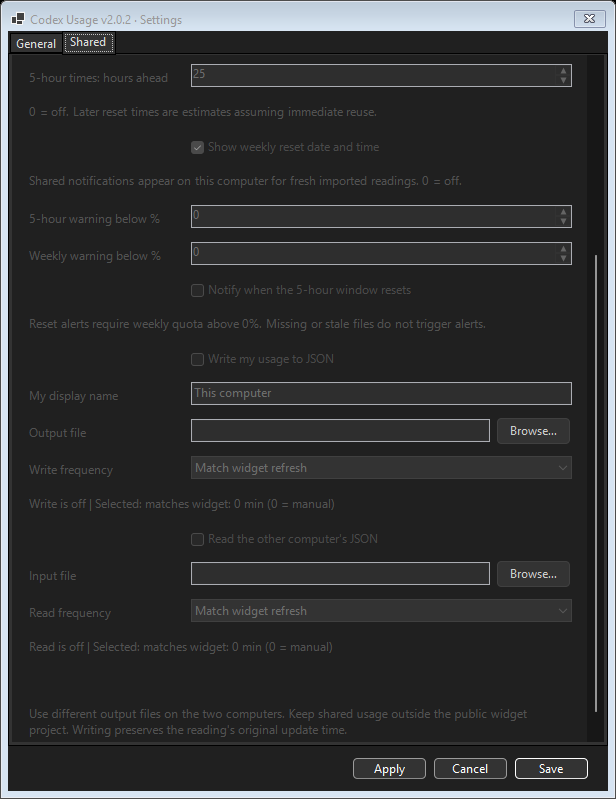
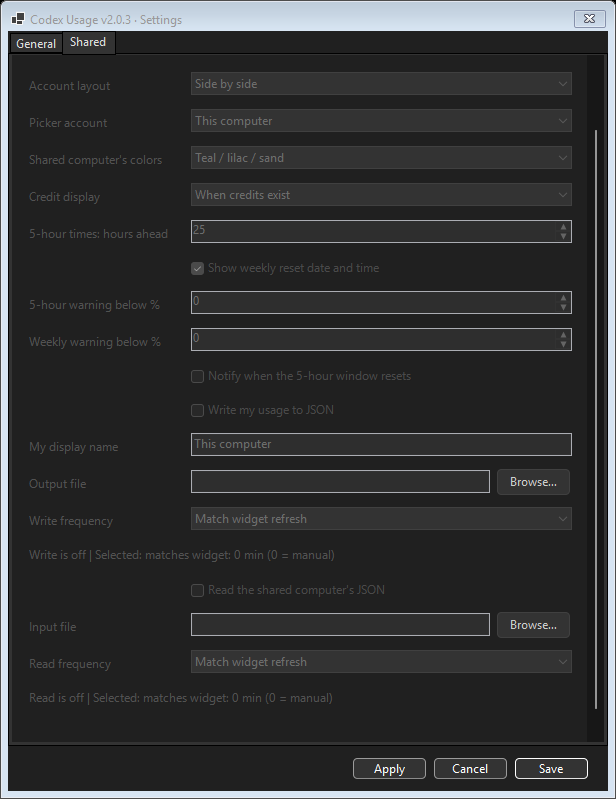
Simplify settings help and rename shared computer labels for v2.0.3

diff --git a/extradetails.md b/extradetails.md
@@ -2,7 +2,7 @@
 
 [Quick start and screenshots](README.md) · [Changelog](changelog.md)
 
-This guide covers Codex Usage Widget 2.0.2.
+This guide covers Codex Usage Widget 2.0.3.
 
 ## Requirements
 
@@ -18,7 +18,7 @@ If this folder's widget is already running in your Windows session, a manual lau
 
 Enable **Launch at Windows sign-in** in the tray menu to start the desktop widget when you sign in. The setting uses a per-user Startup shortcut and is independent on each computer. Turn it off in the same menu to remove that shortcut. Automatic startup quietly leaves an existing instance running. Keep the widget folder in place and available locally at sign-in. Closing the Codex desktop app does not stop the widget: the widget uses its own short-lived usage-reader process and the locally installed Codex executable and saved sign-in.
 
-For a shortcut with the three-color icon, double-click **Create-DesktopShortcut.cmd** after placing the widget folder in its permanent location. It creates a local desktop shortcut using that computer's paths. Include both `Create-DesktopShortcut.cmd` and `Create-DesktopShortcut.ps1` when sharing the widget files. Each recipient runs the helper once; the generated `.lnk` contains local paths. If its destination is inside a registered OneDrive folder, the helper names it **Codex Usage - HOSTNAME** using the full local hostname (falling back to the Windows computer name if unavailable) so synced desktops do not overwrite each other's shortcuts. Elsewhere it remains **Codex Usage**. Detection uses OneDrive account registrations and environment variables, including custom sync locations. The helper removes an old generic or shortened-name shortcut only if it points to this exact widget folder; other computers' shortcuts are preserved. Each named shortcut works on its intended computer. Alternatively, `Start-CodexUsageWidget.cmd` already launches portably from the folder beside it. Creating a shortcut does not install PowerShell 7 or Codex, enable Windows startup, or launch the widget.
+For a shortcut with the three-color icon, double-click **Create-DesktopShortcut.cmd** after placing the widget folder in its permanent location. It creates a local desktop shortcut using that computer's paths. Include both `Create-DesktopShortcut.cmd` and `Create-DesktopShortcut.ps1` when sharing the widget files. Each recipient runs the helper once; the generated `.lnk` contains local paths. If its destination is inside a registered OneDrive folder, the helper names it **Codex Usage - HOSTNAME** using the full local hostname (falling back to the Windows computer name if unavailable) so synced desktops do not overwrite each other's shortcuts. Elsewhere it remains **Codex Usage**. Detection uses OneDrive account registrations and environment variables, including custom sync locations. The helper removes an old generic or shortened-name shortcut only if it points to this exact widget folder; shared computers' shortcuts are preserved. Each named shortcut works on its intended computer. Alternatively, `Start-CodexUsageWidget.cmd` already launches portably from the folder beside it. Creating a shortcut does not install PowerShell 7 or Codex, enable Windows startup, or launch the widget.
 
 Keep `Start-CodexUsageWidget.ps1` beside the CMD launcher. The launcher uses built-in Windows PowerShell to find PowerShell 7 through PATH, common installation folders, or its Microsoft Store registration, then starts the widget hidden.
 
@@ -85,6 +85,8 @@ When the full header no longer fits, a small refresh button remains at the top r
 
 Open **Settings...** from the tray menu. **General** configures this computer's account plus window, refresh, and startup settings. **Shared** mirrors its color, credits, reset-display and notification controls for the imported account, and adds layouts and file connections. Shared controls are scrollable to reach connections below the account preferences.
 
+Explanations appear as hover tooltips on the related controls and labels; live lock state, file-operation status and source age remain visible.
+
 **Apply** validates, saves, and displays changes without closing Settings. **Save** does the same and closes. **Cancel** discards unapplied edits; it does not undo changes already applied.
 
 **Enable Shared** unlocks its controls. Turning it off and applying stops file writing/reading, hides the second account, stops its alerts and file timers, and preserves all connection and account choices. The switch remains available while the rest of Shared is locked. Writing and reading have independent switches within the enabled tab.
@@ -105,7 +107,7 @@ Sharing is opt-in and configured separately on each computer under **Settings...
 1. Create a private shared folder, for example `WidgetUsage`, separate from this project.
 2. On Computer A, turn on **Enable Shared**, enable **Write my usage to JSON**, give it a nickname, and choose a new `account-a.json` output file. Save to create its first file after a successful local reading.
 3. On Computer B, enable Shared and do the same with a different nickname and `account-b.json`.
-4. After the files sync, enable **Read the other computer's JSON** on A and select B's file; on B select A's file. Paths may differ between computers. Never select the same file as input and output.
+4. After the files sync, enable **Read the shared computer's JSON** on A and select B's file; on B select A's file. Paths may differ between computers. Never select the same file as input and output.
 5. On **Shared**, select Side by side, Stacked, or Account picker and a palette for the second account. Use **General** for the local palette. Then choose a window preset if needed.
 
 | Connection | Computer A | Computer B |
@@ -117,9 +119,9 @@ Writing uses an atomic file replacement. Existing output files must belong to th
 
 **Write frequency** and **Read frequency** each offer Match widget refresh, 1/5/15/30 minutes, or Manual only. Matched reads run when a local refresh starts; matched writes follow a successful local refresh. Separate write timers publish the latest existing reading, without making extra Codex requests or changing its original update time. Manual Refresh reads immediately and publishes when the local request succeeds. Saving an enabled connection performs an initial read/write if data is available. Independent file timers continue while minimized to the tray; disabled, manual, and matched connections add no idle file polling.
 
-Sharing shows separate last-write/read statuses and the imported usage's age. A recent file read does not imply recent usage: if the other computer/widget stops, its numbers remain visible and become **stale** after twice its reported refresh interval, with a two-minute minimum. Manual sources use that minimum. OneDrive delivery adds its own delay. Missing, malformed, or older files retain the last valid reading with an error indicator. An input path change clears the previous source. Imported readings are not cached across widget restarts; they reload from the selected file.
+Sharing shows separate last-write/read statuses and the imported usage's age. A recent file read does not imply recent usage: if the shared computer/widget stops, its numbers remain visible and become **stale** after twice its reported refresh interval, with a two-minute minimum. Manual sources use that minimum. OneDrive delivery adds its own delay. Missing, malformed, or older files retain the last valid reading with an error indicator. An input path change clears the previous source. Imported readings are not cached across widget restarts; they reload from the selected file.
 
-The two sources are displayed independently, never summed. Tray bars and tray hover text always refer to the account signed in on this computer. General notification preferences apply locally; Shared notification preferences apply to imported readings and label their popups with the other account name. Shared thresholds default to 0 and its reset alert defaults to off. Warnings are sent once per crossing, with separate persisted history for each account. Shared reset alerts require weekly quota above 0%, just like local resets. Stale or failed file reads never trigger shared alerts. Independent credit and reset-display settings affect only their respective account cards. Side by side retains both numeric columns and a divider at Mini size; headings and update status stay available on hover when they no longer fit. The other computer defaults to teal/lilac/sand so the two accounts are easy to distinguish.
+The two sources are displayed independently, never summed. Tray bars and tray hover text always refer to the account signed in on this computer. General notification preferences apply locally; Shared notification preferences apply to imported readings and label their popups with the other account name. Shared thresholds default to 0 and its reset alert defaults to off. Warnings are sent once per crossing, with separate persisted history for each account. Shared reset alerts require weekly quota above 0%, just like local resets. Stale or failed file reads never trigger shared alerts. Independent credit and reset-display settings affect only their respective account cards. Side by side retains both numeric columns and a divider at Mini size; headings and update status stay available on hover when they no longer fit. The shared computer defaults to teal/lilac/sand so the two accounts are easy to distinguish.
 
 | Preset | Single account | Side by side | Stacked | Account picker |
 | --- | --- | --- | --- | --- |

diff --git a/README.md b/README.md
@@ -2,7 +2,7 @@
 
 A small Windows desktop and tray widget for Codex **5-hour and weekly usage left**, reset times, credits, and notifications. Optionally show a second computer's account through private shared JSON files.
 
-**Version 2.0.2** · [Changelog](changelog.md) · [Detailed guide and troubleshooting](extradetails.md)
+**Version 2.0.3** · [Changelog](changelog.md) · [Detailed guide and troubleshooting](extradetails.md)
 
 ## Quick start
 
@@ -24,7 +24,7 @@ Drag to move or resize. Use **↻** to refresh, **◉ / ○** for always on top,
 
 ## Settings
 
-Right-click the tray icon → **Settings...**. Two tabs, **General** and **Shared**, provide independent colors, credit display, reset details, and notifications for each account. **Apply** updates the widget without closing Settings; **Save** applies and closes. Shared settings lock when **Enable Shared** is off. **0 disables a warning threshold.** Reset alerts require weekly quota above 0%.
+Right-click the tray icon → **Settings...**. Two tabs, **General** and **Shared**, provide independent colors, credit display, reset details, and notifications for each account. **Apply** updates the widget without closing Settings; **Save** applies and closes. Shared settings lock when **Enable Shared** is off. Hover over settings or their labels for help. **0 disables a warning threshold.** Reset alerts require weekly quota above 0%.
 
 | General | Shared |
 | --- | --- |

diff --git a/changelog.md b/changelog.md
@@ -2,6 +2,12 @@
 
 [Back to README](README.md)
 
+## 2.0.3 — October 1, 2026
+
+- Move settings explanations to hover tooltips on their related controls and labels in General and Shared, reducing visual clutter while retaining live sharing status.
+- Rename default other-computer labels to Shared computer, preserving custom source names.
+- Keep help on numeric editors and release the tooltip component when Settings closes. Refresh documentation and settings screenshots.
+
 ## 2.0.2 — October 1, 2026
 
 - Use the full local hostname for OneDrive desktop shortcuts and retire owned shortcuts using the shortened Windows name.
